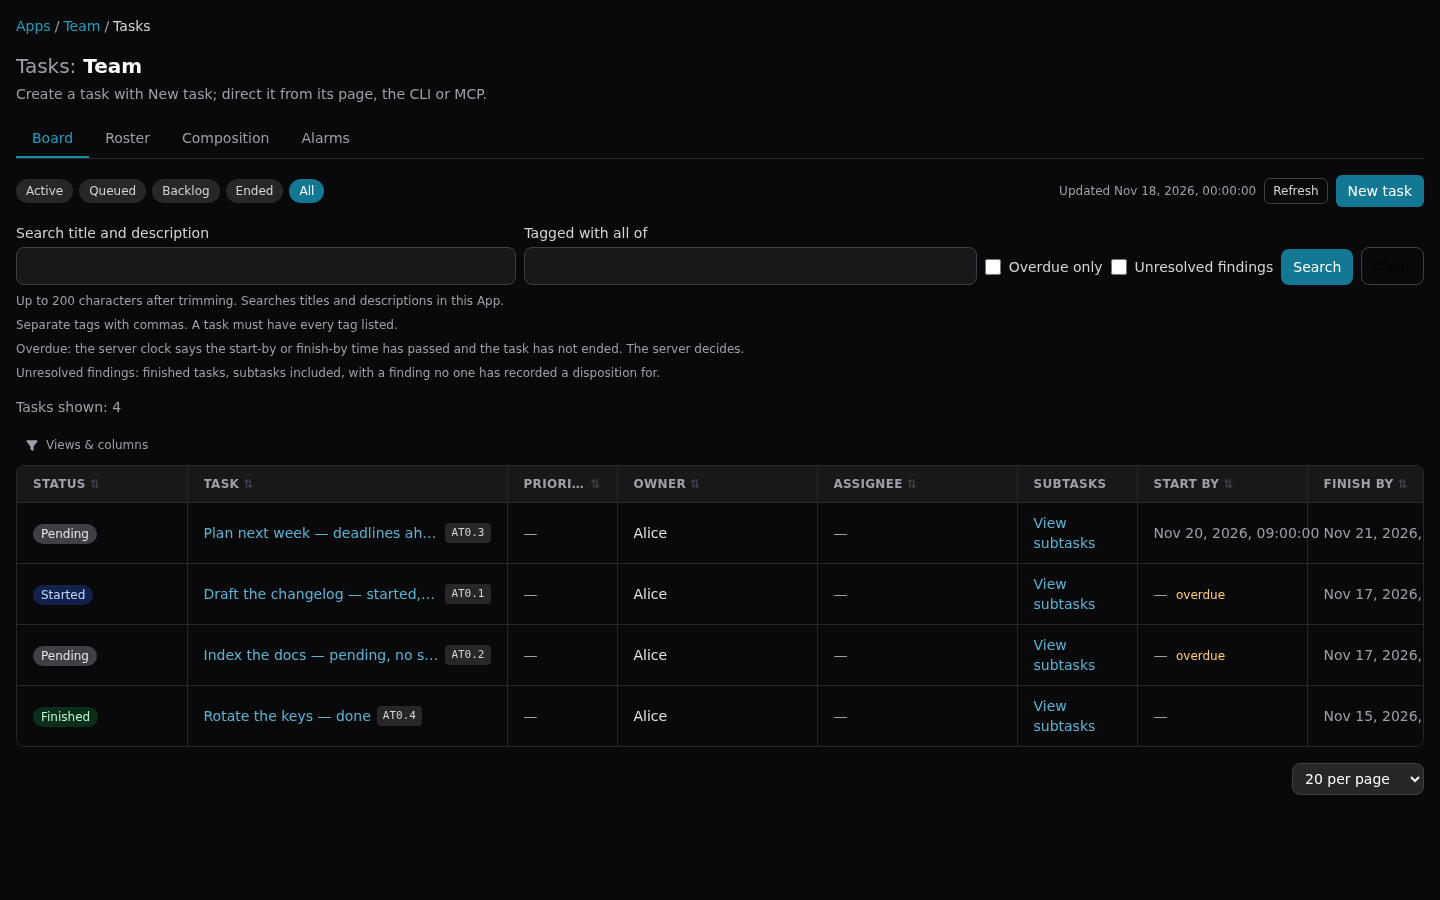
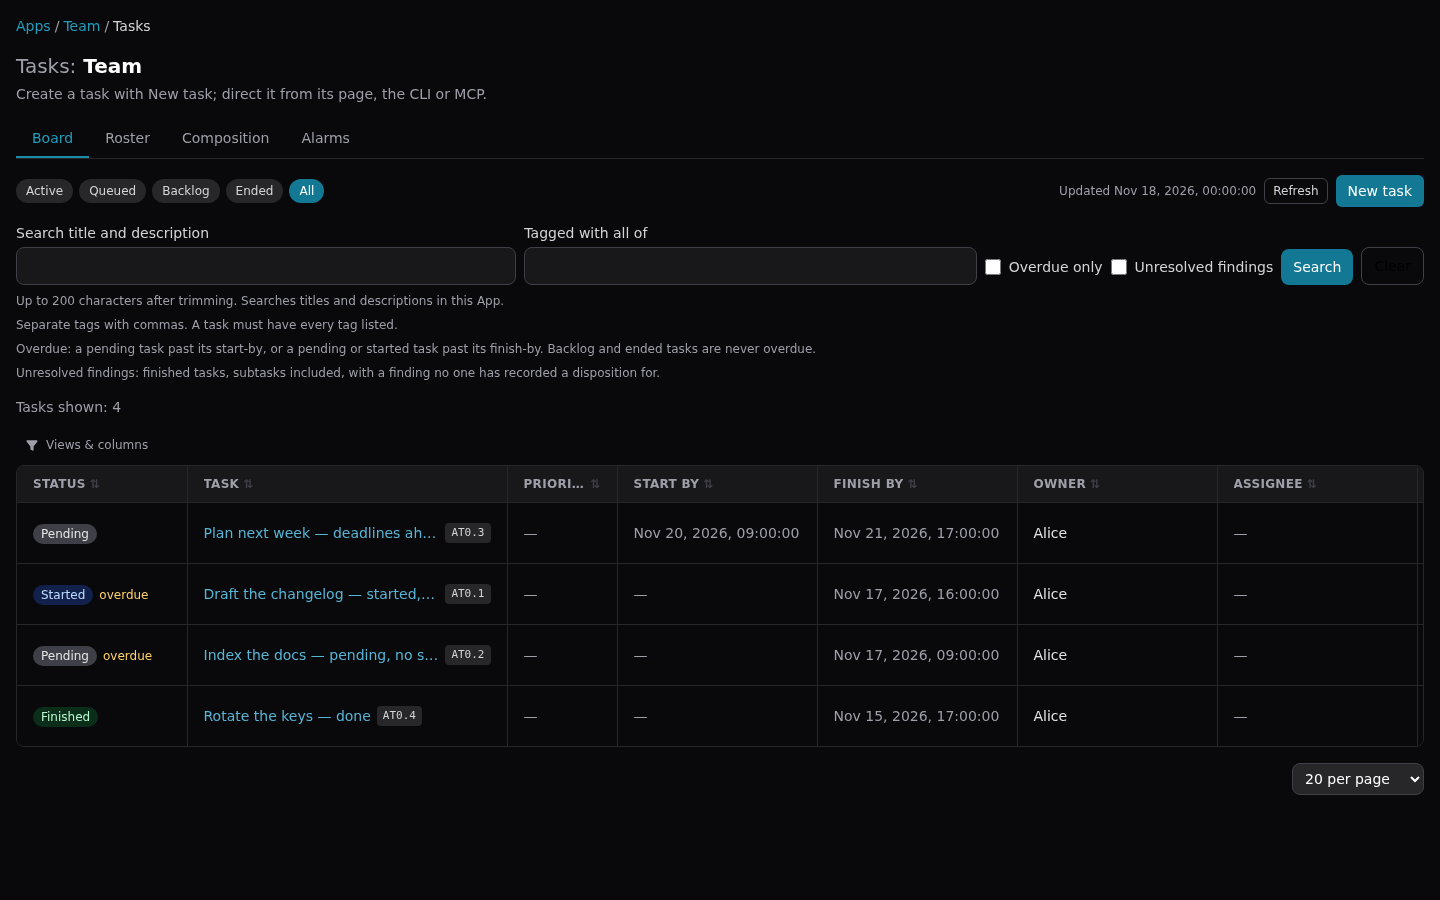
fix: overdue mark in the Status cell, guidance states the server rule exactly
Review of 08c49f7b9 (Jonas LOCAL, Gil BLIND, Uma UX; Celine QA notes) found
the mark attached to the Start by cell, so a finish-by-only overdue read
"Start by: — overdue" — pointing at the one arm a started task can never be
on (#2244 Ask 3). The server boolean does not say which deadline passed, so
the mark is task-level in a task-level place now: beside the status pill,
asserted by its own hook (data-testid=overdue-mark) so a title can never
fake or hide one (Gil: the old text-match test could not fail its positive
half; fixtures retitled off the word too).

The guidance line and the narrow/types/queries comments now state the rule
exactly (hadron-server#4220, #2654): a pending, not-started task past its
start-by, or a pending-or-started task past its finish-by and not ended;
backlog never. The old "start-by or finish-by passed" wording made a
started task past its start-by sound overdue.

Start by / Finish by move ahead of Owner/Assignee and widen to 200px: at
1440 both dates sat past the fold and Finish by was cut mid-value, so a
reader could not tell which time passed (Uma P3, Jonas P3, Celine note).
Proof script pins the fold (header right <= 1440) and the mark's cell,
waits for the table instead of sleeping, closes its browser and vite
server in a finally, and resolves OUT via fileURLToPath. Suite pins TZ=UTC
before fmtRunTime formats.

Gil's older-server concern: no portal document selects a removed field —
[…]

diff --git a/src/routes/app/apps/[appId]/tasks/board-overdue.client.test.ts b/src/routes/app/apps/[appId]/tasks/board-overdue.client.test.ts
@@ -1,14 +1,21 @@
 /**
- * portal#2244 (#2654 companion) — the board's overdue mark is the server's
- * `AgentTask.overdue` and nothing else: start-by OR finish-by passed, judged on
- * the server clock. The portal computes no rule of its own, so the browser
- * clock never shows (or hides) a mark the server did not set. Started tasks
- * past finish-by and pending tasks with no start-by are overdue too — neither
- * could be marked by the old local predicate.
+ * portal#2244 (hadron-server#4220, #2654) — the board's overdue mark is the
+ * server's `AgentTask.overdue` and nothing else: a pending, not-started task
+ * past its start-by, or a pending-or-started task past its finish-by and not
+ * ended; backlog never — all judged on the server clock. The portal computes
+ * no rule of its own, so the browser clock never shows (or hides) a mark the
+ * server did not set. Started tasks past finish-by and pending tasks with no
+ * start-by are overdue too — neither could be marked by the old local
+ * predicate.
  */
 import { afterEach, describe, expect, it } from 'vitest';
 import { mountComponent, tick, type Mounted } from '$lib/test/mountComponent';
 import Harness from '$lib/test/fixtures/TaskBoardHarness.svelte';
+
+// portal#2248 review (Gil P3 6): fmtRunTime renders with the runtime timezone,
+// so pin it before anything formats — 'Nov 20' must be the same date wherever
+// the suite runs.
+process.env.TZ = 'UTC';
 
 const mounted: Mounted<any>[] = [];
 afterEach(() => { while (mounted.length) mounted.pop()!.unmount(); });
@@ -33,26 +40,32 @@ async function mount(tasks: unknown[]) {
 }
 /** One line per rendered task row, in DOM order. */
 const rowLines = (m: Mounted<any>) => [...m.target.querySelectorAll('[data-testid=task-row], tbody tr')] as HTMLElement[];
+/**
+ * portal#2248 review (Gil P2 2): the mark is asserted by its hook
+ * (`data-testid="overdue-mark"`), never by row text — a title containing
+ * "overdue" made the positive half of a text-match test unable to fail.
+ */
+const markIn = (el: Element | null | undefined) => el?.querySelector('[data-testid=overdue-mark]') ?? null;
 
 describe('the overdue mark is the server overdue field', () => {
-  it('marks a STARTED task past its finish-by (overdue true): red on the old predicate', async () => {
+  it('marks a STARTED task past its finish-by (overdue true) — the old predicate left it unmarked', async () => {
     const m = await mount([task({ status: 'STARTED', finishBy: '2026-11-11T00:00:00Z', overdue: true })]);
-    expect(rowLines(m)[0].textContent).toContain('overdue');
+    expect(markIn(rowLines(m)[0])).not.toBeNull();
   });
 
   it('marks a pending task with no start-by whose finish-by passed', async () => {
     const m = await mount([task({ finishBy: '2026-11-11T00:00:00Z', overdue: true })]);
-    expect(rowLines(m)[0].textContent).toContain('overdue');
+    expect(markIn(rowLines(m)[0])).not.toBeNull();
   });
 
   it('marks a task whose start-by is in the future by the browser clock when the server says overdue', async () => {
     const m = await mount([task({ startBy: '2099-01-01T00:00:00Z', overdue: true })]);
-    expect(rowLines(m)[0].textContent).toContain('overdue');
+    expect(markIn(rowLines(m)[0])).not.toBeNull();
   });
 
   it('shows no mark when the server says not overdue, however past the start-by looks locally', async () => {
     const m = await mount([task({ startBy: '2020-01-01T00:00:00Z', overdue: false })]);
-    expect(rowLines(m)[0].textContent).not.toContain('overdue');
+    expect(markIn(rowLines(m)[0])).toBeNull();
   });
 
   it('shows none on ended and backlog rows the server did not mark', async () => {
@@ -60,21 +73,21 @@ describe('the overdue mark is the server overdue field', () => {
       task({ id: 't2', status: 'FINISHED', finishBy: '2020-01-01T00:00:00Z', overdue: false }),
       task({ id: 't3', status: 'BACKLOG', startBy: '2020-01-01T00:00:00Z', overdue: false }),
     ]);
-    for (const line of rowLines(m)) expect(line.textContent).not.toContain('overdue');
+    for (const line of rowLines(m)) expect(markIn(line)).toBeNull();
   });
 
   it('over one fixture set, the marks are exactly the rows the server marked', async () => {
     const m = await mount([
-      task({ id: 'a', title: 'A overdue by finish', status: 'STARTED', finishBy: '2026-11-11T00:00:00Z', overdue: true }),
-      task({ id: 'b', title: 'B overdue without start-by', finishBy: '2026-11-11T00:00:00Z', overdue: true }),
+      task({ id: 'a', title: 'A late by finish', status: 'STARTED', finishBy: '2026-11-11T00:00:00Z', overdue: true }),
+      task({ id: 'b', title: 'B no start date, finish passed', finishBy: '2026-11-11T00:00:00Z', overdue: true }),
       task({ id: 'c', title: 'C locally past start-by', startBy: '2020-01-01T00:00:00Z', overdue: false }),
       task({ id: 'd', title: 'D nothing due' }),
     ]);
-    const marked = rowLines(m).filter((line) => line.textContent!.includes('overdue'));
+    const marked = rowLines(m).filter((line) => markIn(line));
     expect(marked).toHaveLength(2);
     expect(marked.map((line) => line.textContent)).toEqual([
-      expect.stringContaining('A overdue by finish'),
-      expect.stringContaining('B overdue without start-by'),
+      expect.stringContaining('A late by finish'),
+      expect.stringContaining('B no start date, finish passed'),
     ]);
   });
 
@@ -83,5 +96,44 @@ describe('the overdue mark is the server overdue field', () => {
     const head = [...m.target.querySelectorAll('th')].map((th) => th.textContent!.trim());
     expect(head.some((h) => h.startsWith('Finish by'))).toBe(true);
     expect(rowLines(m)[0].textContent).toContain('Nov 20');
+  });
+});
+
+describe('the mark is task-level, in the Status cell (portal#2248 review: Jonas P2 1, Uma P2)', () => {
+  /**
+   * portal#2248 review — the server boolean does not say WHICH deadline
+   * passed, so a mark attached to a date cell is a claim the UI cannot back:
+   * a finish-by-only overdue read as "Start by: — overdue", pointing at the
+   * one arm a started task can never be on. The mark belongs beside the
+   * status pill; the two date columns say which time passed.
+   */
+  const cellUnder = (m: Mounted<any>, headerPrefix: string) => {
+    const ths = [...m.target.querySelectorAll('th')] as HTMLElement[];
+    const idx = ths.findIndex((th) => th.textContent!.trim().startsWith(headerPrefix));
+    expect(idx).toBeGreaterThanOrEqual(0);
+    return rowLines(m)[0].querySelectorAll('td')[idx] as HTMLElement;
+  };
+
+  it('a finish-by-only overdue never reads "— overdue" under Start by; the Status cell carries the mark', async () => {
+    const m = await mount([task({ finishBy: '2026-11-11T00:00:00Z', overdue: true })]);
+    expect(markIn(cellUnder(m, 'Start by'))).toBeNull();
+    expect(markIn(cellUnder(m, 'Status'))).not.toBeNull();
+  });
+
+  it('an overdue with a start-by keeps Start by to the date alone; the mark sits with the status pill', async () => {
+    const m = await mount([task({ startBy: '2026-11-10T00:00:00Z', finishBy: '2026-11-11T00:00:00Z', overdue: true })]);
+    expect(cellUnder(m, 'Start by').textContent).toContain('Nov 10');
+    expect(markIn(cellUnder(m, 'Start by'))).toBeNull();
+    expect(markIn(cellUnder(m, 'Status'))).not.toBeNull();
+  });
+
+  it('both date columns are wide enough for their longest value at 1440 (review P3: clipping)', async () => {
+    const m = await mount([task({ startBy: '2026-11-20T09:00:00Z', finishBy: '2026-11-21T09:00:00Z' })]);
+    const width = (prefix: string) => {
+      const th = ([...m.target.querySelectorAll('th')] as HTMLElement[]).find((t) => t.textContent!.trim().startsWith(prefix))!;
+      return th.getAttribute('style') ?? '';
+    };
+    expect(width('Start by')).toContain('--col-w: 200px');
+    expect(width('Finish by')).toContain('--col-w: 200px');
   });
 });

diff --git a/src/routes/app/apps/[appId]/tasks/+page.svelte b/src/routes/app/apps/[appId]/tasks/+page.svelte
@@ -113,11 +113,18 @@
     { id: 'status', accessorFn: (r) => r.statusText, header: t('app.tasks.col.status', 'Status'), enableHiding: false, size: 170 },
     { id: 'title', accessorFn: (r) => r.title, header: t('app.tasks.col.task', 'Task'), enableHiding: false, size: 320 },
     { id: 'priority', accessorFn: (r) => r.priority, header: t('app.tasks.priority', 'Priority'), size: 110, sortDescFirst: false, sortFn: 'basic', sortUndefined: 'last' },
+    // portal#2248 review (Uma P3 1, Jonas P3, Celine QA note): the two deadline
+    // columns sit with the task's core facts, ahead of the people columns — at
+    // 1440 the visible defaults total ~1690px, so anything after Assignee is
+    // past the fold and Finish by was cut mid-date at the table edge. Widening
+    // alone cannot fix a fold cut; the order puts both deadlines inside the
+    // first 1000px. Saved arrangements keep their own order; this is the
+    // default for fresh views.
+    { id: 'startBy', accessorFn: (r) => r.startByMs, header: t('app.tasks.col.start-by', 'Start by'), size: 200 },
+    { id: 'finishBy', accessorFn: (r) => r.finishByMs, header: t('app.tasks.col.finish-by', 'Finish by'), size: 200 },
     { id: 'owner', accessorFn: (r) => r.ownerText, header: t('app.tasks.col.owner', 'Owner'), size: 200 },
     { id: 'assignee', accessorFn: (r) => r.assigneeText, header: t('app.tasks.col.assignee', 'Assignee'), size: 200 },
     { id: 'subtasks', accessorFn: () => '', header: t('app.tasks.col.subtasks', 'Subtasks'), enableSorting: false, enableGlobalFilter: false, size: 120 },
-    { id: 'startBy', accessorFn: (r) => r.startByMs, header: t('app.tasks.col.start-by', 'Start by'), size: 170 },
-    { id: 'finishBy', accessorFn: (r) => r.finishByMs, header: t('app.tasks.col.finish-by', 'Finish by'), size: 170 },
     { id: 'updated', accessorFn: (r) => r.updatedMs, header: t('app.tasks.col.updated', 'Updated'), size: 170 },
     { id: 'created', accessorFn: (r) => r.createdMs, header: t('app.tasks.col.created', 'Created'), size: 170 },
     { id: 'tags', accessorFn: (r) => r.tagsText, header: t('app.tasks.col.tags', 'Tags'), size: 180 },
@@ -317,7 +324,7 @@
       {:else}
         <p id="task-overdue-guidance" class="w-full text-xs text-zinc-500 dark:text-zinc-400">
           {overdueOffered
-            ? t('app.tasks.narrow.overdue.guidance', 'Overdue: the server clock says the start-by or finish-by time has passed and the task has not ended. The server decides.')
+            ? t('app.tasks.narrow.overdue.guidance', 'Overdue: a pending task past its start-by, or a pending or started task past its finish-by. Backlog and ended tasks are never overdue.')
             : t('app.tasks.narrow.overdue.unavailable', 'Overdue applies to Active, Queued and All tasks.')}
         </p>
       {/if}
@@ -393,7 +400,14 @@
       >
         {#snippet cell(cell, row)}
           {#if cell.column.id === 'status'}
-            <TaskStateChips task={row.task} />
+            <span class="inline-flex flex-wrap items-center gap-1.5">
+              <TaskStateChips task={row.task} />
+              <!-- portal#2244: the server's verdict, shown even when start-by is null
+                   (a finish-by-only overdue) and never computed from the browser clock.
+                   Task-level verdict, task-level place (portal#2248 review): the boolean
+                   does not say which deadline passed, so it never attaches to a date cell. -->
+              {#if row.task.overdue}<span data-testid="overdue-mark" class="text-xs font-medium text-amber-700 dark:text-amber-300">{t('app.tasks.overdue', 'overdue')}</span>{/if}
+            </span>
           {:else if cell.column.id === 'title'}
             <div class="flex min-w-0 flex-col">
               <span class="flex min-w-0 items-center gap-1.5">
@@ -427,9 +441,6 @@
             {:else}
               <span class="text-zinc-400">—</span>
             {/if}
-            <!-- portal#2244: the server's verdict, shown even when start-by is null
-                 (a finish-by-only overdue) and never computed from the browser clock. -->
-            {#if row.task.overdue}<span class="ml-1 text-xs font-medium text-amber-700 dark:text-amber-300">{t('app.tasks.overdue', 'overdue')}</span>{/if}
           {:else if cell.column.id === 'finishBy'}
             {#if row.task.finishBy}
               <span class="whitespace-nowrap">{fmtRunTime(row.task.finishBy)}</span>

diff --git a/src/routes/app/apps/[appId]/tasks/board-filters.client.test.ts b/src/routes/app/apps/[appId]/tasks/board-filters.client.test.ts
@@ -67,9 +67,11 @@ describe('one Overdue note, not two (portal#1434 item 3)', () => {
     expect(guidance(m).textContent).toContain('Overdue applies to Active, Queued and All tasks.');
     expect(m.target.querySelector('[data-testid=overdue-dropped]')).toBeNull();
   });
-  it('offered: the guidance line defines overdue (portal#2244: server clock, finish-by included)', async () => {
-    expect(guidance(await mount({ filter: 'active' })).textContent).toContain('start-by or finish-by time has passed');
-    expect(guidance(await mount({ filter: 'active' })).textContent).toContain('The server decides.');
+  it('offered: the guidance line states the server rule exactly (portal#2244 + portal#2248 review: Gil P2 1, Jonas P2 2)', async () => {
+    const text = guidance(await mount({ filter: 'active' })).textContent;
+    expect(text).toContain('a pending task past its start-by, or a pending or started task past its finish-by');
+    expect(text).toContain('Backlog and ended tasks are never overdue');
+    expect(text).not.toContain('The server decides.');
   });
 });
 

diff --git a/src/lib/agent-tasks/narrow.ts b/src/lib/agent-tasks/narrow.ts
@@ -5,11 +5,12 @@ import type { BoardFilter } from './status';
  * Overdue and tags. Both AND with the bucket and the search, and both live in
  * the URL.
  *
- * Overdue is the server's definition (#2654: a pending, not-started task past
- * its start-by, or a pending-or-started task past its finish-by and not ended;
- * backlog never — all on the database clock); the portal never recomputes it from
- * `startBy` to filter. Tags mean ALL of the listed tags, because every other
- * control on the board narrows and a second tag should too.
+ * Overdue is the server's definition (hadron-server#4220, implementing #2654:
+ * a pending, not-started task past its start-by, or a pending-or-started task
+ * past its finish-by and not ended; backlog never — all on the database clock);
+ * the portal never recomputes it from `startBy` to filter. Tags mean ALL of the
+ * listed tags, because every other control on the board narrows and a second
+ * tag should too.
  */
 export type BoardNarrow = { overdue: boolean; tags: string[]; unresolved: boolean };
 

diff --git a/src/lib/agent-tasks/types.ts b/src/lib/agent-tasks/types.ts
@@ -62,9 +62,11 @@ export interface AgentTaskRow {
   startBy: string | null;
   finishBy: string | null;
   /**
-   * portal#2244 (hadron-server#4220): the server's own overdue verdict — start-by or
-   * finish-by passed, judged on the server clock. The portal computes no overdue rule
-   * of its own; a row shows the mark exactly when this is true.
+   * portal#2244 (hadron-server#4220, implementing #2654): the server's own
+   * overdue verdict — a pending, not-started task past its start-by, or a
+   * pending-or-started task past its finish-by and not ended; backlog never —
+   * all on the server clock. The portal computes no overdue rule of its own;
+   * a row shows the mark exactly when this is true.
    */
   overdue: boolean;
   createdAt: string;

diff --git a/src/lib/server/queries.ts b/src/lib/server/queries.ts
@@ -5556,9 +5556,10 @@ const AGENT_TASK_ROW_FIELDS = /* GraphQL */ `
     assignee { id kind name urn }
     startBy
     finishBy
-    # portal#2244 (hadron-server#4220): the server's overdue verdict, start-by or
-    # finish-by passed, judged on the server clock. The page renders this and
-    # computes no overdue predicate of its own.
+    # portal#2244 (hadron-server#4220, implementing #2654): the server's overdue
+    # verdict — a pending, not-started task past its start-by, or a pending-or-
+    # started task past its finish-by and not ended; backlog never — on the server
+    # clock. The page renders this and computes no overdue predicate of its own.
     overdue
     createdAt
     updatedAt
